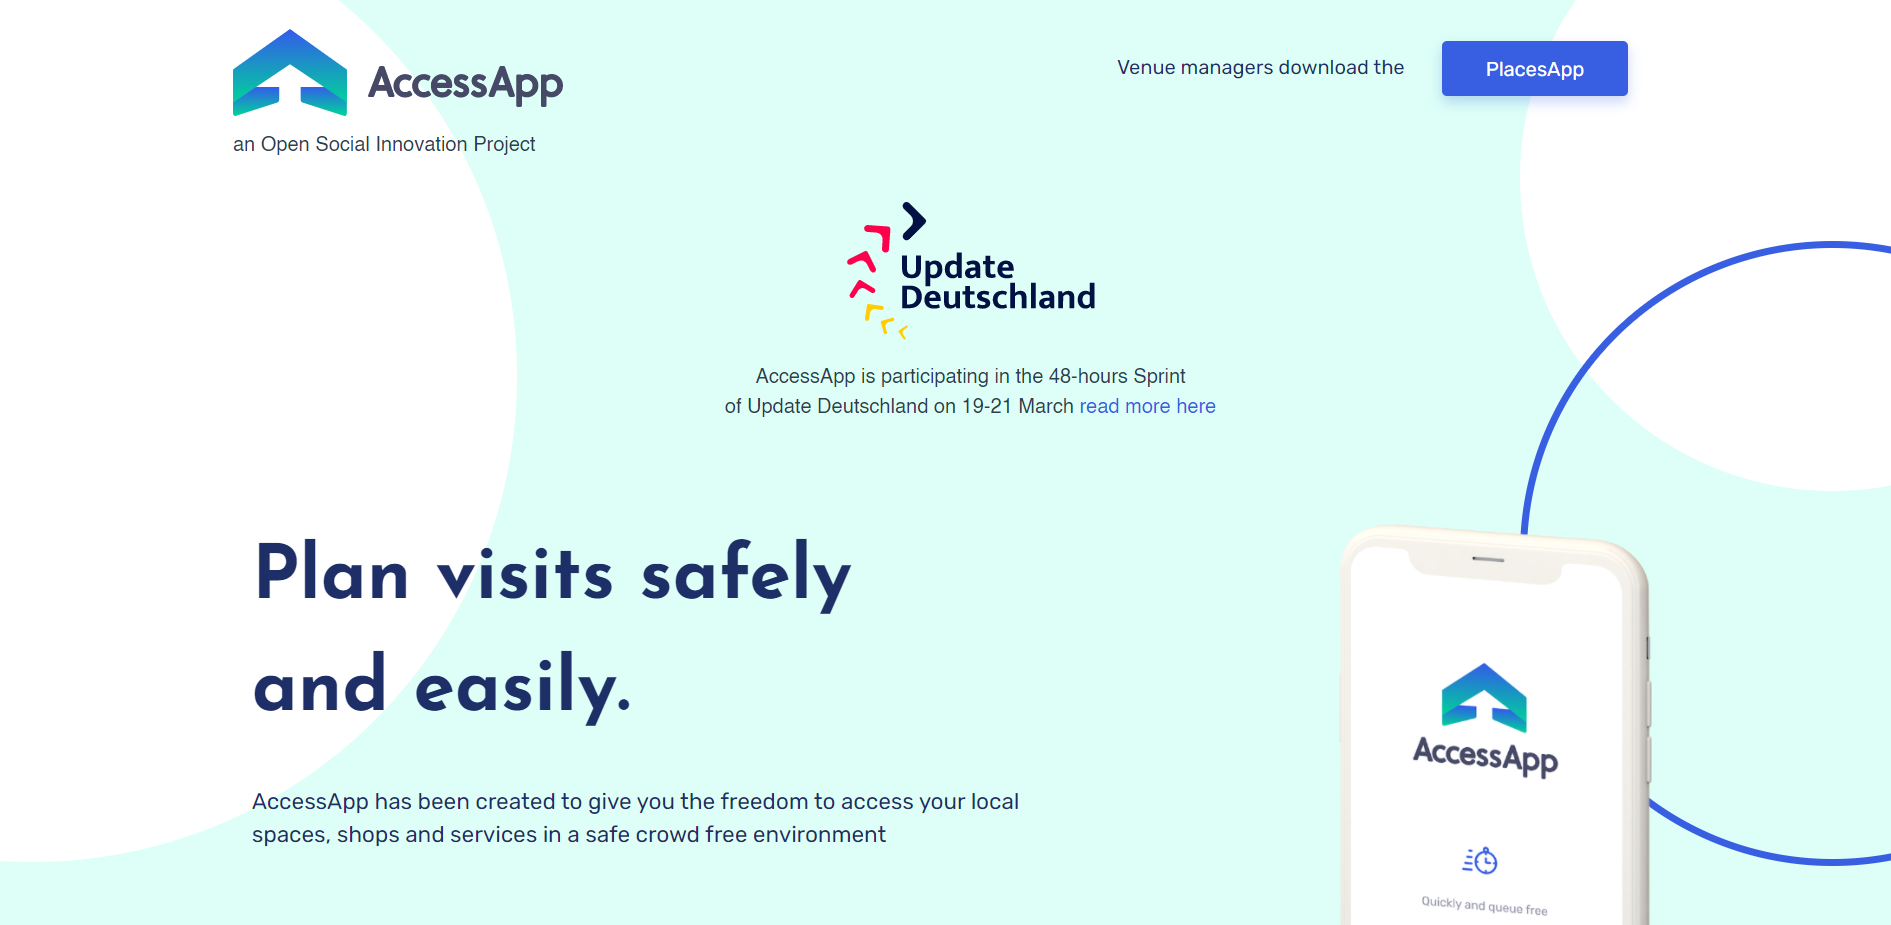
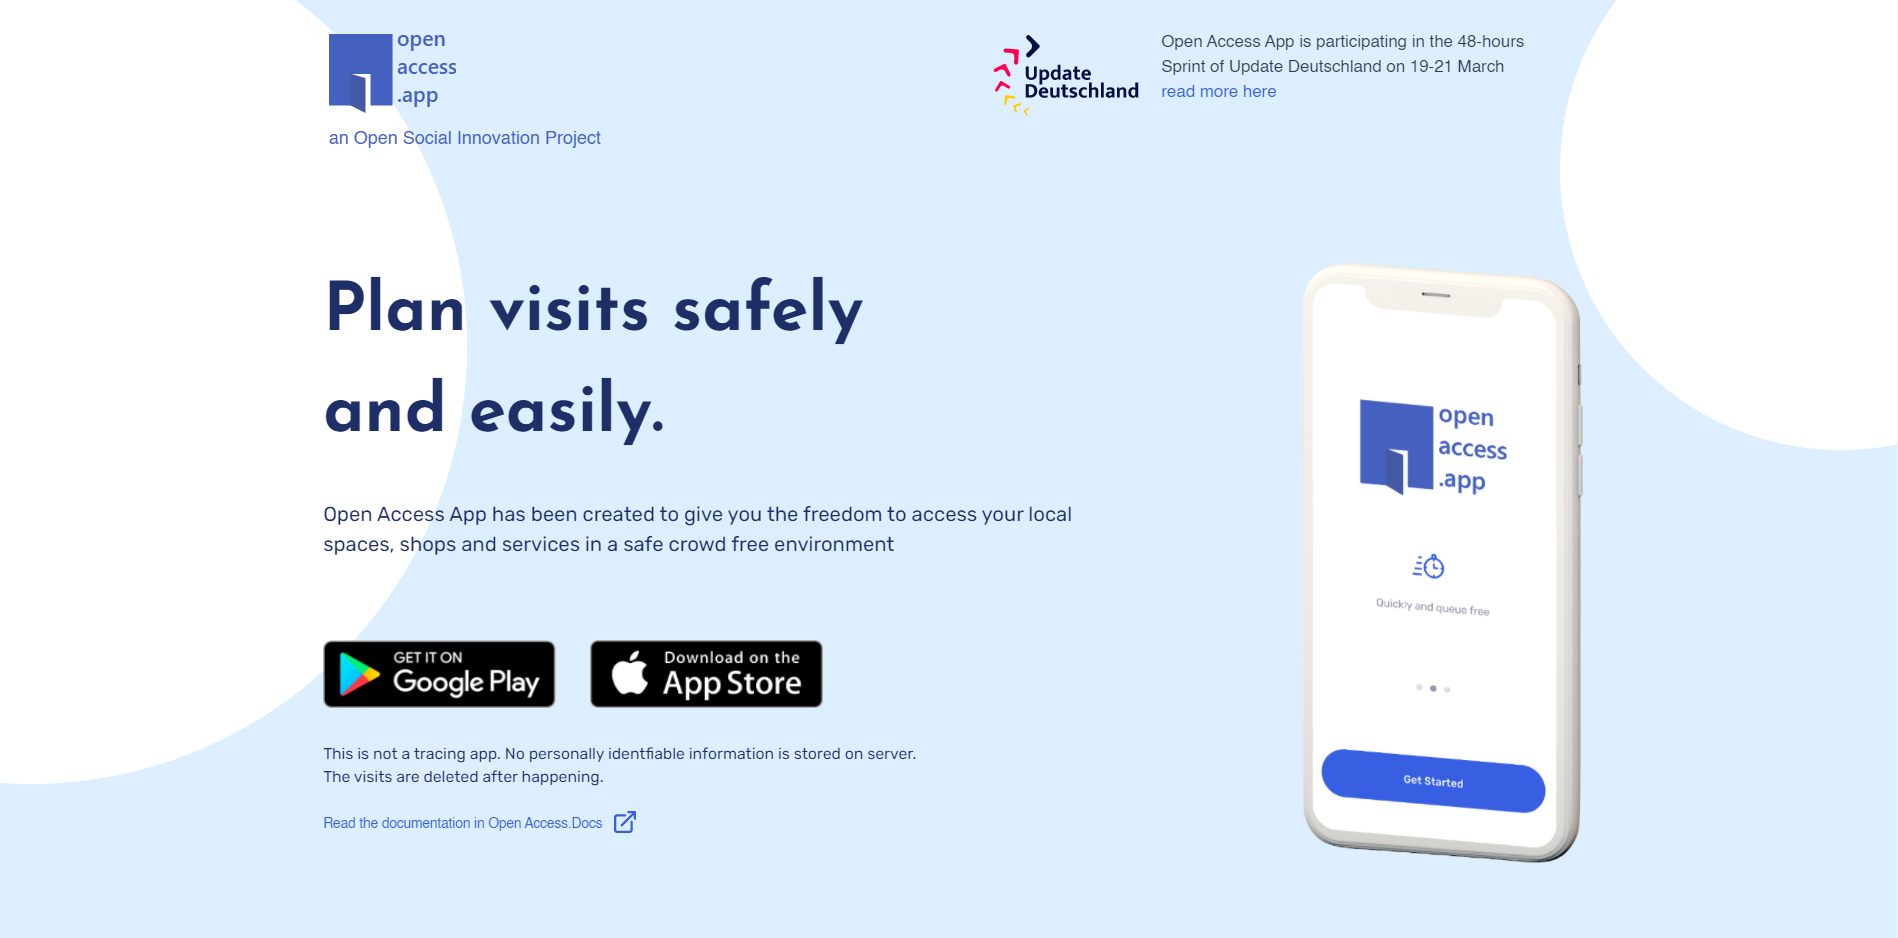
new cards image

diff --git a/public/index.html b/public/index.html
@@ -6,12 +6,12 @@
     <meta name="viewport" content="width=device-width,initial-scale=1.0">
     <!-- Twitter Specific Tags -->
     <meta name="twitter:card" content="summary_large_image">
-    <meta name="twitter:title" content="AccessApp is participating in the Sprint of Update Deutschland">
+    <meta name="twitter:title" content="Open Access App is participating in the Sprint of Update Deutschland">
     <meta name="twitter:description" content="AccessApp is participating in the 48 hours Sprint of Update Deutschland on 19-21 March">
     <meta name="twitter:image" content="https://downloadaccess.app/assets/AccessApp-UpdateDeutschland.png">
     <!-- Twitter Specific Tags -->
     <!-- LinkedIn Specific Tags -->
-    <meta name="title" property="og:title" content="AccessApp is participating in the Sprint of Update Deutschland">
+    <meta name="title" property="og:title" content="Open Access App is participating in the Sprint of Update Deutschland">
     <meta name="image" property="og:image" content="https://downloadaccess.app/assets/AccessApp-UpdateDeutschland.png">
     <meta name="description" property="og:description" content="AccessApp is participating in the 48 hours Sprint of Update Deutschland under the patronage of the German Federal Government: on 19-21 March.">
     <meta name="author" content="T.E Shaw">
